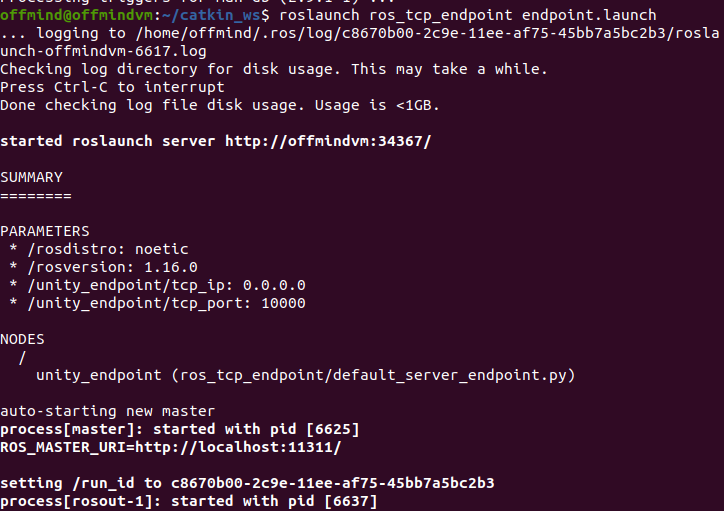
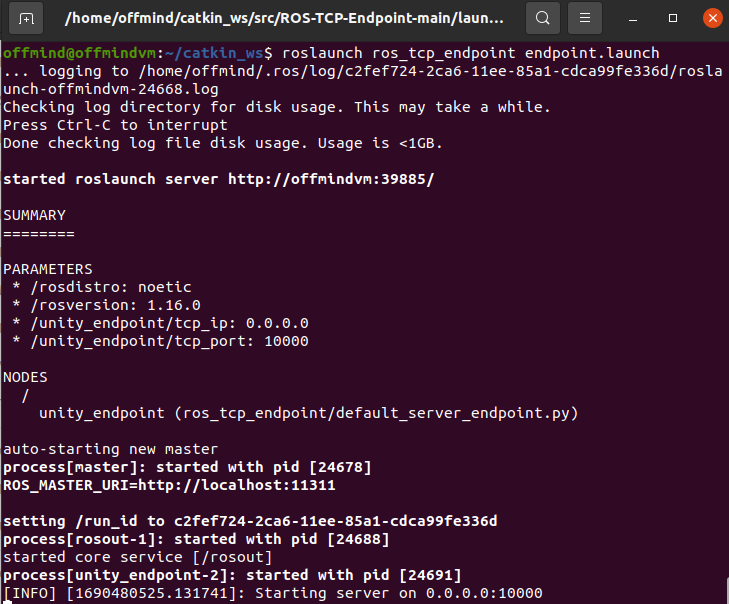
up

Changed region(s): [[0.0, 0.0, 1.0, 1.0]]

diff --git a/Readme.md b/Readme.md
@@ -46,17 +46,22 @@ https://github.com/0FFMIND/SummerController/blob/main/7_22_FirstWeekDemo.mp4
 PC needs to install Windows Insider Preview Builds（Successfully）. For using Linux subsystem in win10, we need to open PowerShell with administration, and type wsl.exe~~（Discarded）     
 ***
 -2023/7/25-      
-· Unity Side: Add new package https://github.com/Unity-Technologies/ROS-TCP-Connector.git?path=/com.unity.robotics.ros-tcp-connector for communication with ROS moveIt    
+· Unity Side: Add new package https://github.com/Unity-Technologies/ROS-TCP-Connector.git?path=/com.unity.robotics.ros-tcp-connector for communication with ROS    
 · For ROS Image, this project use VMstation Ubuntu ROS-noetic image(In 2023/7/19, new Virtual machine is created with ubuntu 20.04LTS).    
 · Add ROS-noetic to offmind machine, solution link for unexpected errors:    
 · For ROS-noetic, use Ubuntu.iso 20.04 LTS, and add python3-rosdep2 to Virtual machine.      
 https://blog.csdn.net/qq_44339029/article/details/120579608)    
-· Successfully: 
+· Successfully: https://github.com/0FFMIND/SummerController/blob/main/7_25_VM_ROSterminal.png
 ***
 -2023/7/26-      
 · Virtual Machine Side: Create catkin packages (build a catkin workspace http://wiki.ros.org/catkin/Tutorials/create_a_workspace)      
 · cd ~/catkin_ws/ --> catkin_make --> source devel/setup.bash --> roslaunch ros_tcp_endpoint endpoint.launch      
-· Successfully: 
+· Successfully: https://github.com/0FFMIND/SummerController/blob/main/7_26_ROS_endpoint.png     
+***
+-2023/7/27-    
+· Unity in Windows cannot have TCP connection to ROS in Virtual Machine     
+Error picture:     
+***
 tutorial link:    
 https://github.com/Unity-Technologies/Unity-Robotics-Hub/blob/main/tutorials/ros_unity_integration/setup.md     
 https://github.com/Unity-Technologies/Unity-Robotics-Hub/blob/main/tutorials/ros_unity_integration/unity_service.md     
